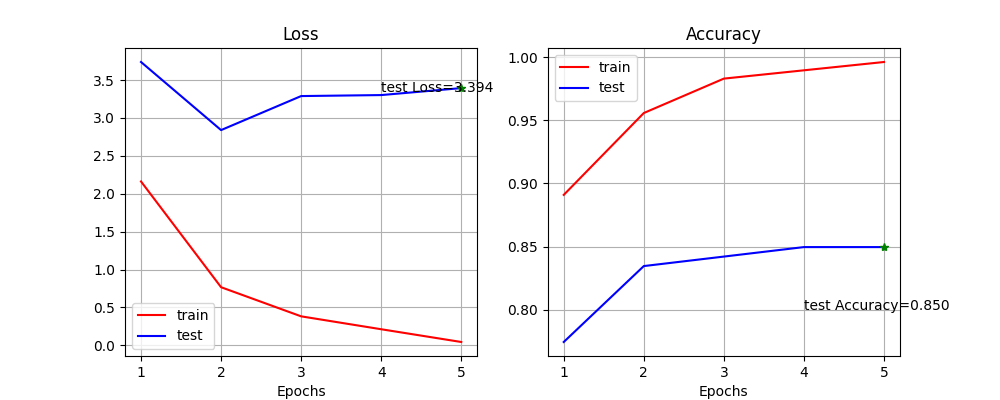
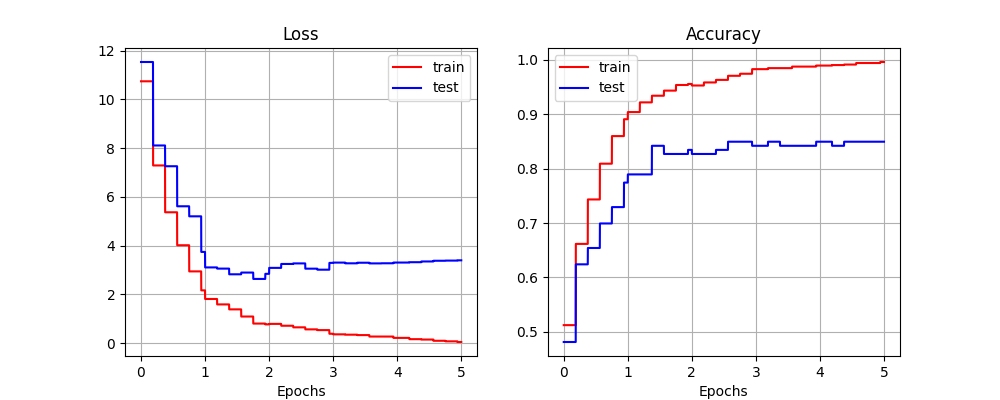
adding features analysis

diff --git a/logreg/logreg.py b/logreg/logreg.py
@@ -329,7 +329,7 @@ class LogReg:
 
 
 ''' ploting function '''
-def plot_test_val(ax, title, train, test, test_point):
+def plot_test_val(ax, title, train, test, test_point, scale):
     '''
     plots a given train and test data
     :param ax: matplotlib ax
@@ -338,11 +338,11 @@ def plot_test_val(ax, title, train, test, test_point):
     :param test: test list
     :param test_point: number
     '''
-    x = np.arange(1, len(test) +1, 1)
+    x = np.arange(1, len(test)+1, 1) / scale
     ax.plot(x, train, label='train', color='r')
     ax.plot(x, test, label='test', color='b')
-    ax.plot([len(test)], [test_point], 'g*')
-    ax.annotate(f"test {title}={test_point:.3f}", xy=(len(test), test_point), xytext=(len(test)-1, test_point-.05))
+    # ax.plot([len(test)], [test_point], 'g*')
+    # ax.annotate(f"test {title}={test_point:.3f}", xy=(len(test), test_point), xytext=(len(test)-1, test_point-.05))
     ax.set_xlabel('Epochs')
     ax.legend()
     ax.set_title(title)
@@ -450,11 +450,11 @@ if __name__ == "__main__":
                     print("    Update %i\tTP %f\tHP %f\tTA %f\tHA %f" %
                         (update_number, train_lp, ho_lp, train_acc, ho_acc))
         
-        '''recording losses for ploting'''
-        train_loss_list.append(train_loss)
-        test_loss_list.append(test_loss)
-        train_acc_list.append(train_acc)
-        test_acc_list.append(ho_acc)
+            '''recording losses for ploting'''
+            train_loss_list.append(train_loss)
+            test_loss_list.append(test_loss)
+            train_acc_list.append(train_acc)
+            test_acc_list.append(ho_acc)
 
         """ Early Stoping"""
         if args.early_stop > 0:
@@ -481,8 +481,8 @@ if __name__ == "__main__":
 
     '''ploting results'''
     fig, (ax1, ax2) = plt.subplots(1, 2, figsize=(10, 4))
-    plot_test_val(ax1, 'Loss', train_loss_list, test_loss_list, test_loss)
-    plot_test_val(ax2, 'Accuracy', train_acc_list, test_acc_list, ho_acc)
+    plot_test_val(ax1, 'Loss', train_loss_list, test_loss_list, test_loss, scale=len(train))
+    plot_test_val(ax2, 'Accuracy', train_acc_list, test_acc_list, ho_acc, scale=len(train))
     plt.show()
     fig.savefig(f'figures/{args.plot_name}.png')
 
